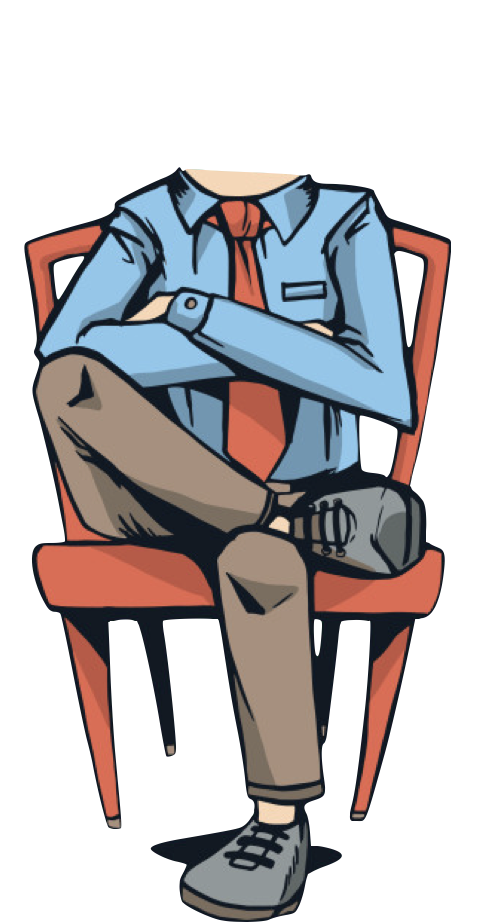
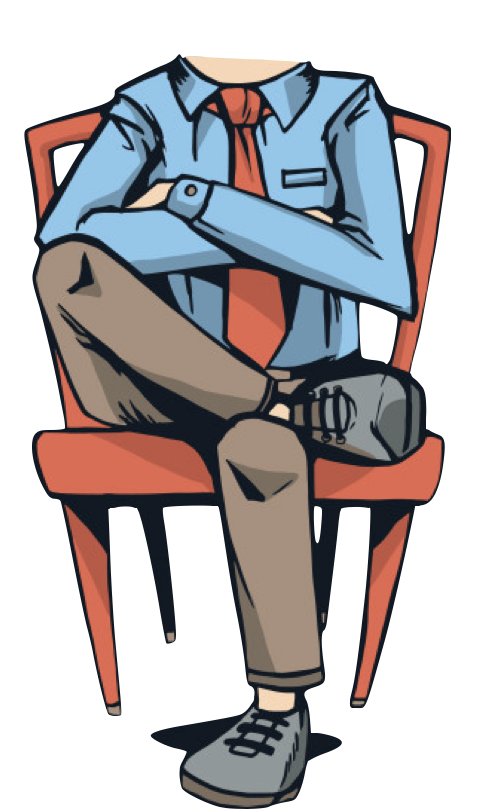
tweaked index page

diff --git a/index.html b/index.html
@@ -28,7 +28,7 @@
 </head>
 
 <body>
-  
+
   <nav class="navbar" >
     <ul class="navbar-list">
       <li class="navbar-list-item">    
@@ -47,18 +47,14 @@
 
         <i>The zookeeper has misplaced a precious prize! He thinks he knows where it might be, but without a bit of a guidance he might as well be looking for a needle in a haystack. He really just wants to know it's safe, so if you can help the zookeeper find what he's lost I bet he'll let you keep it. </i>
 
-        <br />
-        <br />
 
-        <br /><br />
-        
         <div style="text-align: center;">
           <table class="fenced">
             <tr><td></td><td></td><td></td><td></td></tr>
             <tr>
               <td colspan="2">
                 <a href="puzzle/headless.html">
-                  <img src="images/headless_no_text.png" style="width: 150px; height: 285px;"><br />
+                  <img src="images/headless_no_text.png" style="width: 150px; height: 250px;"><br />
                   <b>Headless</b>
                 </a>
               </td>
